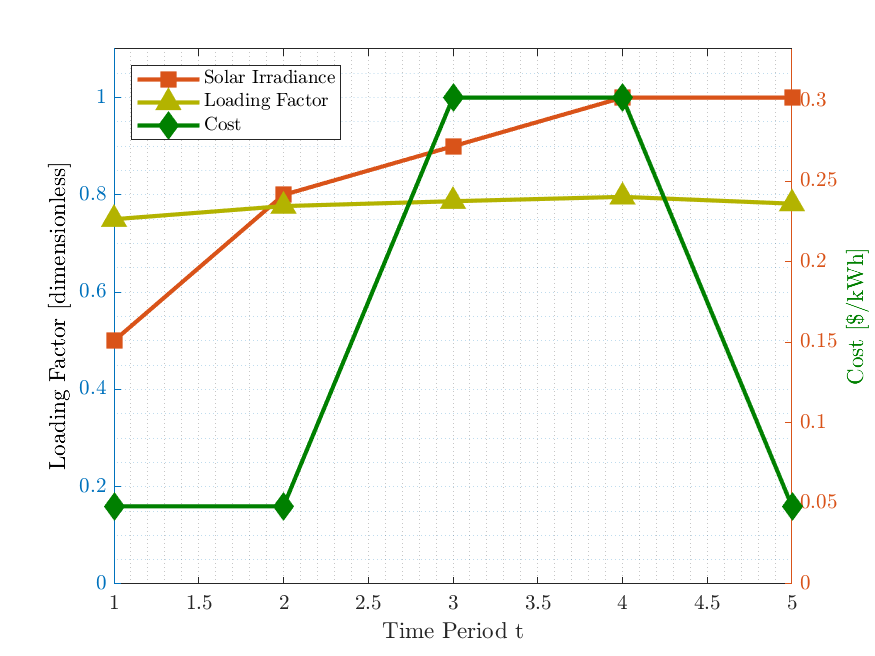
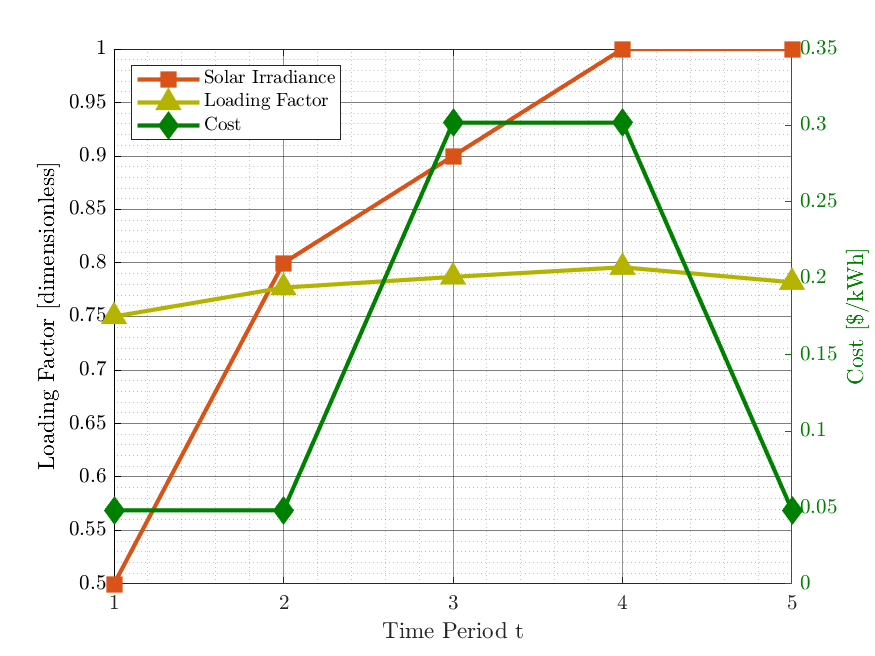
Trying to come up with the perfect plot, but so far something always goes slightly wrong

diff --git a/functions/plotInputCurves.m b/functions/plotInputCurves.m
@@ -1,12 +1,9 @@
 function plotInputCurves(sysInfo, simInfo, varargin)
-    % plotInputCurves Plots cost, PV load shape, and load shape on a single figure
-    % with two different y-axes. Optionally saves and/or shows the plot.
-
     p = inputParser;
     addParameter(p, 'savePlots', true, @islogical);
     addParameter(p, 'showPlots', false, @islogical);
     parse(p, varargin{:});
-    
+
     costArray = simInfo.costArray;
     loadShapePV = sysInfo.loadShapePV;
     loadShape = sysInfo.loadShape;
@@ -17,55 +14,41 @@ function plotInputCurves(sysInfo, simInfo, varargin)
     wdSim = simInfo.wdSim;
     t = 1:length(costArray);
 
-    % Adjust visibility based on the 'showPlots' flag
-    visibleSetting = 'off';
-    if showPlots
-        visibleSetting = 'on';
-    end
-
-    % Create figure with controlled visibility
-    f = figure('Visible', visibleSetting);
-
-    % First y-axis (left side)
+    f = figure('visible', showPlots);
     yyaxis left;
     plot(t, loadShapePV, '-s', 'Color', [0.85, 0.325, 0.098], 'MarkerFaceColor', [0.85, 0.325, 0.098], 'LineWidth', 2, 'MarkerSize', 8, 'DisplayName', 'Solar Irradiance');
     hold on;
     plot(t, loadShape, '-^', 'Color', [0.7, 0.7, 0], 'MarkerFaceColor', [0.7, 0.7, 0], 'LineWidth', 2, 'MarkerSize', 8, 'DisplayName', 'Loading Factor');
     ylabel('Loading Factor [dimensionless]', 'Color', 'k');
+    ax = gca;
+    ax.YColor = 'k';  % Black for left y-axis
 
-    % Second y-axis (right side)
     yyaxis right;
     plot(t, costArray, '-d', 'Color', [0, 0.5, 0], 'MarkerFaceColor', [0, 0.5, 0], 'LineWidth', 2, 'MarkerSize', 8, 'DisplayName', 'Cost');
     ylabel('Cost [\$/kWh]', 'Color', [0, 0.5, 0]);
+    ax = gca;
+    ax.YColor = [0, 0.5, 0];  % Green for right y-axis
 
-    % Set y-axis and x-axis limits
-    yyaxis left;
-    ylim([0, max(loadShapePV)*1.1]);  % Slightly above max for aesthetic spacing
-    yyaxis right;
-    ylim([0, max(costArray)*1.1]);
-
-    xlim([1, T]);
-
-    % Labels, title, and legend
     xlabel('Time Period t');
     legend('show', 'Location', 'northwest');
+    grid on;
+    ax.GridAlpha = 0.5;  % Set grid transparency
     grid minor;
+    xticks(1:T);  % Set x-ticks to integers only
 
-    % Save the figure if requested
     if savePlots
         folderPath = fullfile(wdSim, 'processedData', sysInfo.systemName, 'numAreas', num2str(sysInfo.numAreas));
         if ~exist(folderPath, 'dir')
             mkdir(folderPath);
         end
         ext = ".png";
-        filename = fullfile(folderPath, strcat('InputCurves_Horizon_', num2str(T)));
-        saveas(f, filename, 'png');  % Ensure the format is explicitly specified
+        filename = fullfile(folderPath, strcat('InputCurves_Horizon_', num2str(T), ext));
+        saveas(f, filename, 'png');
     end
 
-    % If showing the plot, update the visibility dynamically
     if showPlots
         set(f, 'Visible', 'on');
     end
 
-    % hold off;
+    hold off;
 end
